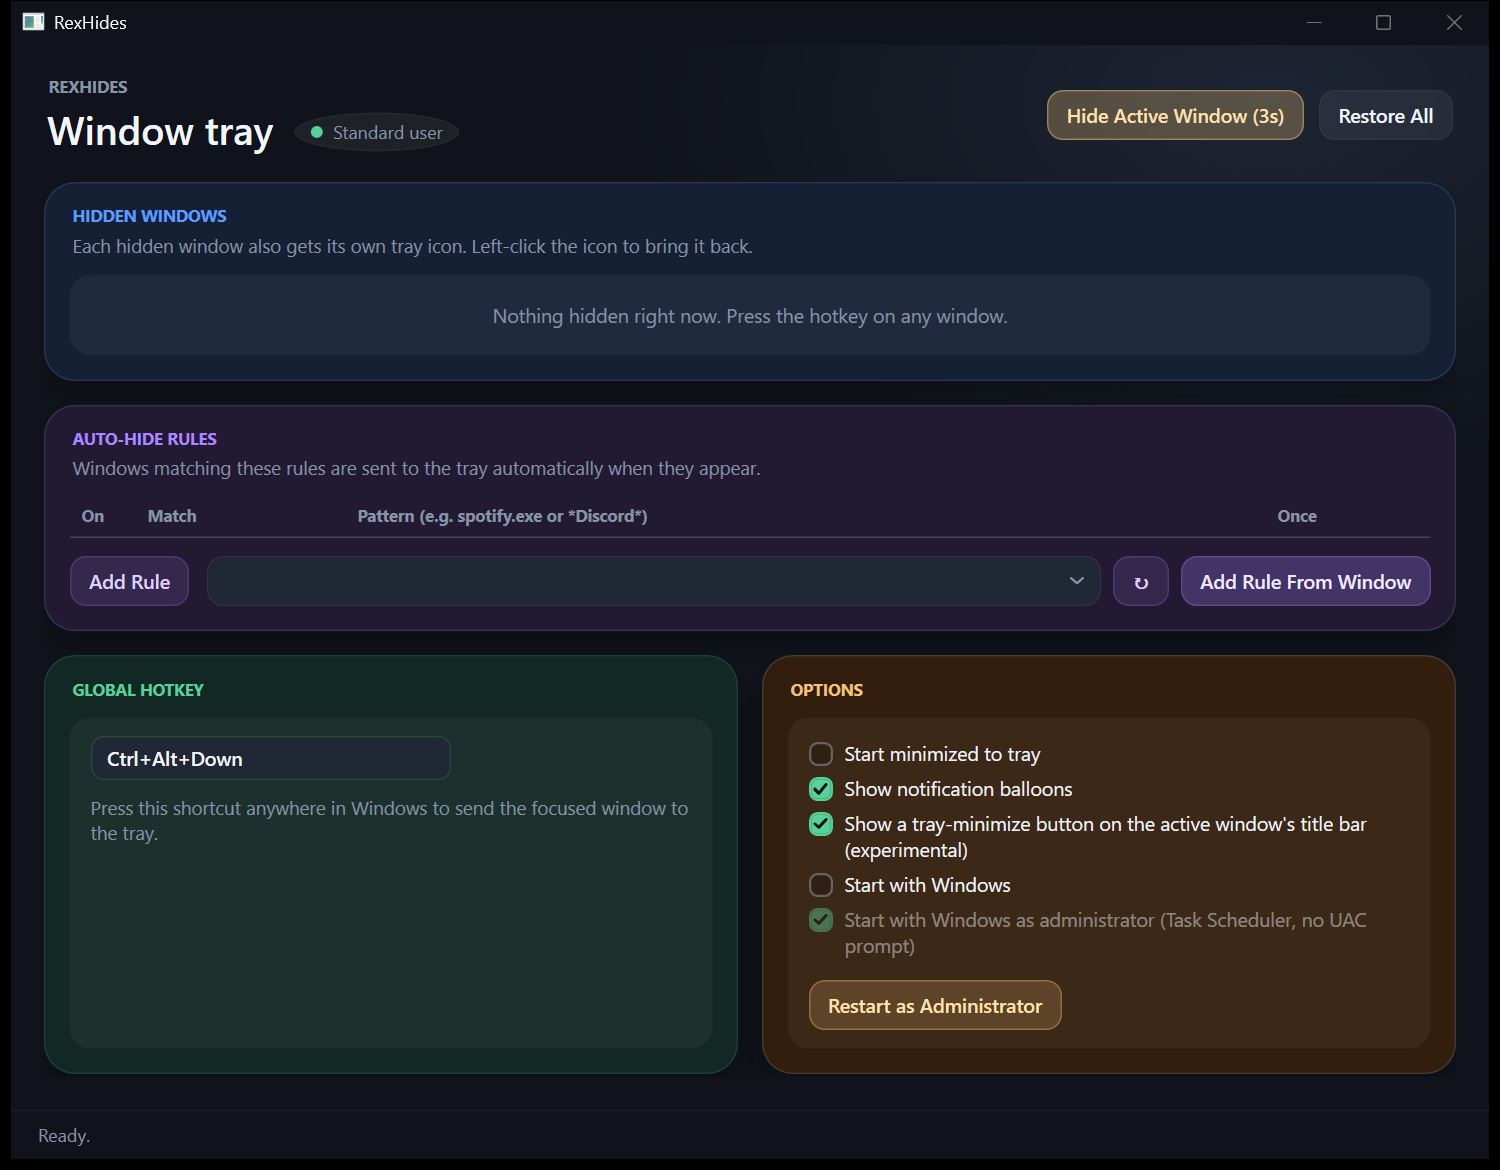
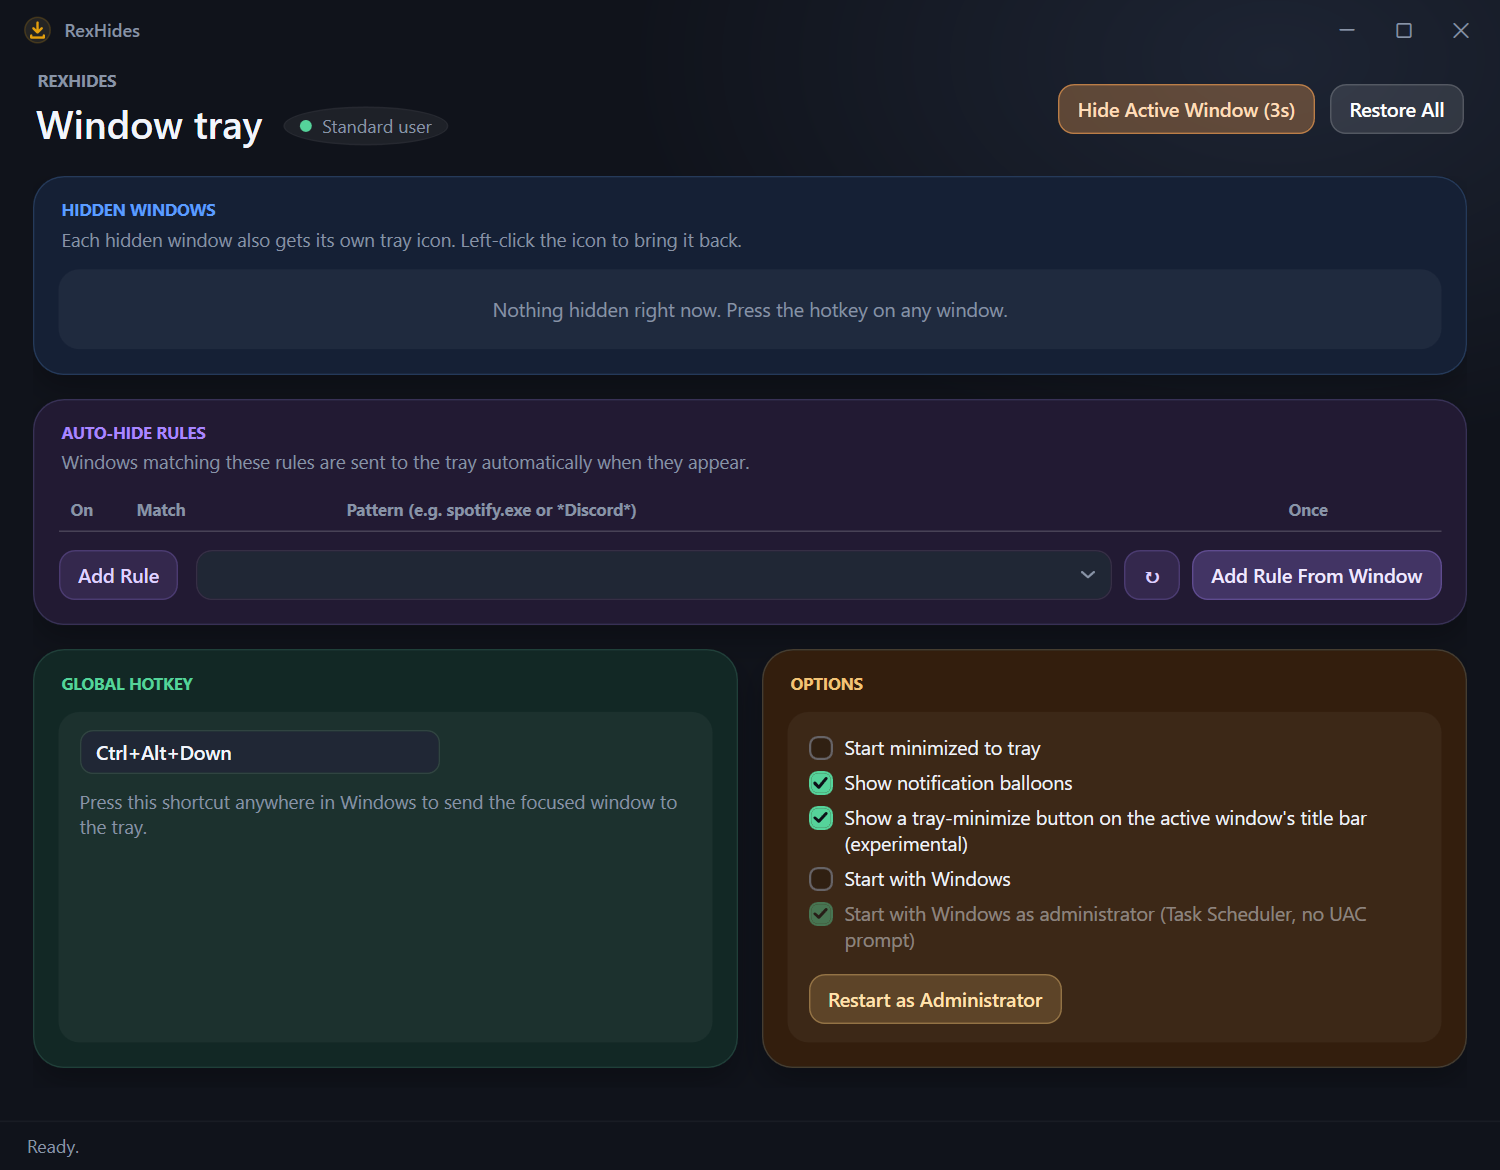
Custom dark title bar, orange primary button, brighter Restore All.
MainWindow now uses WindowChrome with a bento title bar (RexHides mark, rounded minimize/maximize/close buttons, red close hover) and pads its content when maximized.

Changed region(s): [[0.0, 0.0, 1.0, 1.0], [0.0613, 0.8923, 0.46, 0.9231], [0.3373, 0.2462, 0.6747, 0.2769]]

diff --git a/src/RexHides/Views/MainWindow.xaml b/src/RexHides/Views/MainWindow.xaml
@@ -16,15 +16,44 @@
         xmlns:mc="http://schemas.openxmlformats.org/markup-compatibility/2006"
         mc:Ignorable="d">
 
-    <Grid>
+    <WindowChrome.WindowChrome>
+        <WindowChrome CaptionHeight="40" ResizeBorderThickness="6" GlassFrameThickness="0"
+                      CornerRadius="0" UseAeroCaptionButtons="False"/>
+    </WindowChrome.WindowChrome>
+
+    <Grid x:Name="RootGrid">
         <Grid.RowDefinitions>
+            <RowDefinition Height="40"/>
             <RowDefinition Height="Auto"/>
             <RowDefinition Height="*"/>
             <RowDefinition Height="Auto"/>
         </Grid.RowDefinitions>
 
+        <!-- Title bar (drag, double-click and right-click are handled by WindowChrome) -->
+        <Grid Grid.Row="0" Margin="16,0,8,0">
+            <StackPanel Orientation="Horizontal" VerticalAlignment="Center">
+                <Grid Width="18" Height="18">
+                    <Ellipse Fill="#242424" Stroke="#33E5A00D" StrokeThickness="1"/>
+                    <Path Stroke="#E5A00D" StrokeThickness="1.6" StrokeStartLineCap="Round"
+                          StrokeEndLineCap="Round" StrokeLineJoin="Round"
+                          Data="M 9,4 L 9,10 M 6.2,7.8 L 9,10.6 L 11.8,7.8 M 4.8,12.6 L 4.8,14 L 13.2,14 L 13.2,12.6"/>
+                </Grid>
+                <TextBlock Text="RexHides" Margin="9,0,0,0" FontSize="12" FontWeight="SemiBold"
+                           Foreground="{StaticResource BentoMutedBrush}" VerticalAlignment="Center"/>
+            </StackPanel>
+            <StackPanel Orientation="Horizontal" HorizontalAlignment="Right" VerticalAlignment="Center">
+                <Button Style="{StaticResource CaptionButton}" Content="&#xE921;" ToolTip="Minimize"
+                        WindowChrome.IsHitTestVisibleInChrome="True" Click="MinimizeButton_Click"/>
+                <Button x:Name="MaximizeButton" Style="{StaticResource CaptionButton}" Content="&#xE922;"
+                        ToolTip="Maximize"
+                        WindowChrome.IsHitTestVisibleInChrome="True" Click="MaximizeButton_Click"/>
+                <Button Style="{StaticResource CaptionCloseButton}" Content="&#xE8BB;" ToolTip="Close to tray"
+                        WindowChrome.IsHitTestVisibleInChrome="True" Click="CloseButton_Click"/>
+            </StackPanel>
+        </Grid>
+
         <!-- Header -->
-        <Grid Grid.Row="0" Margin="24,20,24,8">
+        <Grid Grid.Row="1" Margin="24,6,24,8">
             <Grid.ColumnDefinitions>
                 <ColumnDefinition Width="*"/>
                 <ColumnDefinition Width="Auto"/>
@@ -47,17 +76,17 @@
                 </StackPanel>
             </StackPanel>
             <StackPanel Grid.Column="1" Orientation="Horizontal" VerticalAlignment="Center">
-                <Button Style="{StaticResource PrimaryAmberButton}" Margin="0,0,10,0"
+                <Button Style="{StaticResource PrimaryOrangeButton}" Margin="0,0,10,0"
                         Command="{Binding HideActiveWindowCommand}"
                         Content="Hide Active Window (3s)"/>
-                <Button Style="{StaticResource NeutralButton}"
+                <Button Style="{StaticResource HighlightButton}"
                         Command="{Binding RestoreAllCommand}"
                         Content="Restore All"/>
             </StackPanel>
         </Grid>
 
         <!-- Content -->
-        <ScrollViewer Grid.Row="1" VerticalScrollBarVisibility="Auto" HorizontalScrollBarVisibility="Disabled"
+        <ScrollViewer Grid.Row="2" VerticalScrollBarVisibility="Auto" HorizontalScrollBarVisibility="Disabled"
                       Padding="22,10,22,22" Focusable="False">
             <Grid>
                 <Grid.ColumnDefinitions>
@@ -277,7 +306,7 @@
         </ScrollViewer>
 
         <!-- Status bar -->
-        <Border Grid.Row="2" Background="Transparent" BorderBrush="#0AFFFFFF" BorderThickness="0,1,0,0"
+        <Border Grid.Row="3" Background="Transparent" BorderBrush="#0AFFFFFF" BorderThickness="0,1,0,0"
                 Padding="18,8">
             <TextBlock Text="{Binding StatusText}" Foreground="{StaticResource BentoMutedBrush}" FontSize="12"
                        TextTrimming="CharacterEllipsis"/>

diff --git a/src/RexHides/Themes/Bento.xaml b/src/RexHides/Themes/Bento.xaml
@@ -234,13 +234,70 @@
         </Style.Triggers>
     </Style>
 
-    <Style x:Key="PrimaryAmberButton" TargetType="Button" BasedOn="{StaticResource BentoButton}">
-        <Setter Property="Background" Value="#47F2C477"/>
-        <Setter Property="BorderBrush" Value="#9EF2C477"/>
-        <Setter Property="Foreground" Value="{StaticResource AmberButtonTextBrush}"/>
+    <!-- Header primary action: warmer orange than the amber card accent. -->
+    <Style x:Key="PrimaryOrangeButton" TargetType="Button" BasedOn="{StaticResource BentoButton}">
+        <Setter Property="Background" Value="#4DFFA552"/>
+        <Setter Property="BorderBrush" Value="#B3FFA552"/>
+        <Setter Property="Foreground" Value="#FFDDBA"/>
         <Style.Triggers>
             <Trigger Property="IsMouseOver" Value="True">
-                <Setter Property="Background" Value="#66F2C477"/>
+                <Setter Property="Background" Value="#6BFFA552"/>
+                <Setter Property="BorderBrush" Value="#E6FFA552"/>
+            </Trigger>
+        </Style.Triggers>
+    </Style>
+
+    <!-- Neutral button with a little more presence than NeutralButton. -->
+    <Style x:Key="HighlightButton" TargetType="Button" BasedOn="{StaticResource BentoButton}">
+        <Setter Property="Background" Value="#1CFFFFFF"/>
+        <Setter Property="BorderBrush" Value="#40FFFFFF"/>
+        <Setter Property="Foreground" Value="#FFFFFF"/>
+        <Style.Triggers>
+            <Trigger Property="IsMouseOver" Value="True">
+                <Setter Property="Background" Value="#2EFFFFFF"/>
+                <Setter Property="BorderBrush" Value="#5CFFFFFF"/>
+            </Trigger>
+        </Style.Triggers>
+    </Style>
+
+    <!-- Custom title bar buttons (Segoe Fluent Icons on Windows 11, MDL2 Assets on Windows 10). -->
+    <Style x:Key="CaptionButton" TargetType="Button">
+        <Setter Property="Width" Value="36"/>
+        <Setter Property="Height" Value="28"/>
+        <Setter Property="Margin" Value="2,0,0,0"/>
+        <Setter Property="Foreground" Value="{StaticResource BentoMutedBrush}"/>
+        <Setter Property="Background" Value="Transparent"/>
+        <Setter Property="FontFamily" Value="Segoe Fluent Icons, Segoe MDL2 Assets"/>
+        <Setter Property="FontSize" Value="10"/>
+        <Setter Property="Focusable" Value="False"/>
+        <Setter Property="IsTabStop" Value="False"/>
+        <Setter Property="Template">
+            <Setter.Value>
+                <ControlTemplate TargetType="Button">
+                    <Border Background="{TemplateBinding Background}" CornerRadius="8">
+                        <ContentPresenter HorizontalAlignment="Center" VerticalAlignment="Center"/>
+                    </Border>
+                </ControlTemplate>
+            </Setter.Value>
+        </Setter>
+        <Style.Triggers>
+            <Trigger Property="IsMouseOver" Value="True">
+                <Setter Property="Background" Value="#17FFFFFF"/>
+                <Setter Property="Foreground" Value="{StaticResource BentoTextBrush}"/>
+            </Trigger>
+            <Trigger Property="IsPressed" Value="True">
+                <Setter Property="Background" Value="#0DFFFFFF"/>
+            </Trigger>
+        </Style.Triggers>
+    </Style>
+    <Style x:Key="CaptionCloseButton" TargetType="Button" BasedOn="{StaticResource CaptionButton}">
+        <Style.Triggers>
+            <Trigger Property="IsMouseOver" Value="True">
+                <Setter Property="Background" Value="#D9E5484D"/>
+                <Setter Property="Foreground" Value="#FFFFFF"/>
+            </Trigger>
+            <Trigger Property="IsPressed" Value="True">
+                <Setter Property="Background" Value="#A6E5484D"/>
             </Trigger>
         </Style.Triggers>
     </Style>

diff --git a/src/RexHides/Views/MainWindow.xaml.cs b/src/RexHides/Views/MainWindow.xaml.cs
@@ -18,6 +18,33 @@ public partial class MainWindow : Window
 
         HotkeyBox.SetDisplay(viewModel.HotkeyText);
         HotkeyBox.HotkeyCaptured += (_, hotkey) => viewModel.ApplyHotkey(hotkey);
+        StateChanged += (_, _) => UpdateMaximizeState();
+    }
+
+    private void MinimizeButton_Click(object sender, RoutedEventArgs e) => SystemCommands.MinimizeWindow(this);
+
+    private void MaximizeButton_Click(object sender, RoutedEventArgs e)
+    {
+        if (WindowState == WindowState.Maximized)
+        {
+            SystemCommands.RestoreWindow(this);
+        }
+        else
+        {
+            SystemCommands.MaximizeWindow(this);
+        }
+    }
+
+    private void CloseButton_Click(object sender, RoutedEventArgs e) => Close();
+
+    private void UpdateMaximizeState()
+    {
+        bool maximized = WindowState == WindowState.Maximized;
+        MaximizeButton.Content = maximized ? "\uE923" : "\uE922";
+        MaximizeButton.ToolTip = maximized ? "Restore" : "Maximize";
+
+        // With custom chrome, a maximized window extends past the screen by the resize frame.
+        RootGrid.Margin = maximized ? SystemParameters.WindowResizeBorderThickness : new Thickness(0);
     }
 
     protected override void OnSourceInitialized(EventArgs e)

diff --git a/README.md b/README.md
@@ -10,7 +10,7 @@ A Windows system utility (.NET 8 WPF) that minimizes any application window to i
 
 - **Minimize any window to the tray** - hide the active window via hotkey, the settings UI, or automatic rules. Restore it by clicking its tray icon.
 - **Dynamic per-window tray icons** - each hidden window gets its own tray icon using that application's real icon (extracted via `WM_GETICON`, the window class icon, or the executable's embedded icon). Left-click restores the window and removes the icon; right-click offers Restore / Close Window / Restore All.
-- **Dark bento settings window** - a near-black window with a dark title bar and rounded, color-tinted cards: blue for hidden windows, purple for auto-hide rules, green for the hotkey, and amber for options.
+- **Dark bento settings window** - a near-black window with a custom dark title bar (rounded minimize, maximize, and close buttons; close sends the window back to the tray) and rounded, color-tinted cards: blue for hidden windows, purple for auto-hide rules, green for the hotkey, and amber for options.
 - **Theme-aware tray menus** - context menus for the main tray icon and hidden-window icons follow the Windows app light/dark theme detected when the tray manager starts. Theme changes made afterward take effect the next time the tray manager starts.
 - **Customizable global hotkey** - default `Ctrl+Alt+H`, re-mappable live in settings (implemented with `RegisterHotKey`, no keyboard-hook DLLs).
 - **Auto-hide rules** - match by process name (`spotify.exe`) or window title wildcard (`*Discord*`); matching windows are sent to the tray automatically when they appear. Rules can apply once per window or on every show, and never fight a window you manually restored.

diff --git a/CHANGELOG.md b/CHANGELOG.md
@@ -13,7 +13,7 @@ Format: [Keep a Changelog](https://keepachangelog.com/en/1.1.0/); versioning: [S
 
 ### Changed
 
-- Settings window redesigned in a dark bento style: near-black background with a soft glow, a dark title bar, and rounded tinted cards (blue hidden windows, purple auto-hide rules, green hotkey, amber options). Lists, tables, checkboxes, dropdowns, scrollbars, and tooltips are all dark, and the hidden-windows list shows a message when nothing is hidden.
+- Settings window redesigned in a dark bento style: near-black background with a soft glow, a custom dark title bar with the RexHides mark and rounded caption buttons, an orange "Hide Active Window" button, a brighter "Restore All" button, and rounded tinted cards (blue hidden windows, purple auto-hide rules, green hotkey, amber options). Lists, tables, checkboxes, dropdowns, scrollbars, and tooltips are all dark, and the hidden-windows list shows a message when nothing is hidden.
 - GitHub releases are self-contained win-x64 zips (no separate .NET Desktop Runtime install).
 - Main tray icon and title-bar minimize-to-tray button now use charcoal backgrounds with Plex-gold (`#E5A00D`) glyphs.
 - Tray context menus for the main tray icon and hidden-window icons now follow the Windows app light/dark theme detected when the tray manager starts; theme changes apply after the next tray manager start.

diff --git a/.cursor/agents/wpf-mvvm-ui.md b/.cursor/agents/wpf-mvvm-ui.md
@@ -14,7 +14,7 @@ Hard rules:
 - Settings-backed properties write through to `SettingsService.Current` and call `Save()` in the setter.
 - Follow the dark bento visual language (shared with RexControls and Rex New Tab): palette, card styles (`BlueCard`, `PurpleCard`, `GreenCard`, `AmberCard`), keyed button styles, and implicit control templates live in `src/RexHides/Themes/Bento.xaml`. Reuse those resources instead of inline colors; no light theme and no third-party UI libraries.
 - Keep Button styles keyed so they never reach `TitleBarOverlayWindow`'s charcoal/gold button.
-- The dark caption bar is set from `MainWindow.OnSourceInitialized` via `NativeMethods.UseDarkTitleBar`.
+- `MainWindow` uses `WindowChrome` with a custom 40px title bar (caption buttons need `WindowChrome.IsHitTestVisibleInChrome="True"`); `UpdateMaximizeState` pads `RootGrid` when maximized. `NativeMethods.UseDarkTitleBar` still runs in `OnSourceInitialized` to keep the window frame dark.
 - The main window hides to tray on close (`App.IsExitRequested` guard in `OnClosing`) - never break that.
 - View models are UI-thread affine; service events already arrive on the dispatcher.
 
